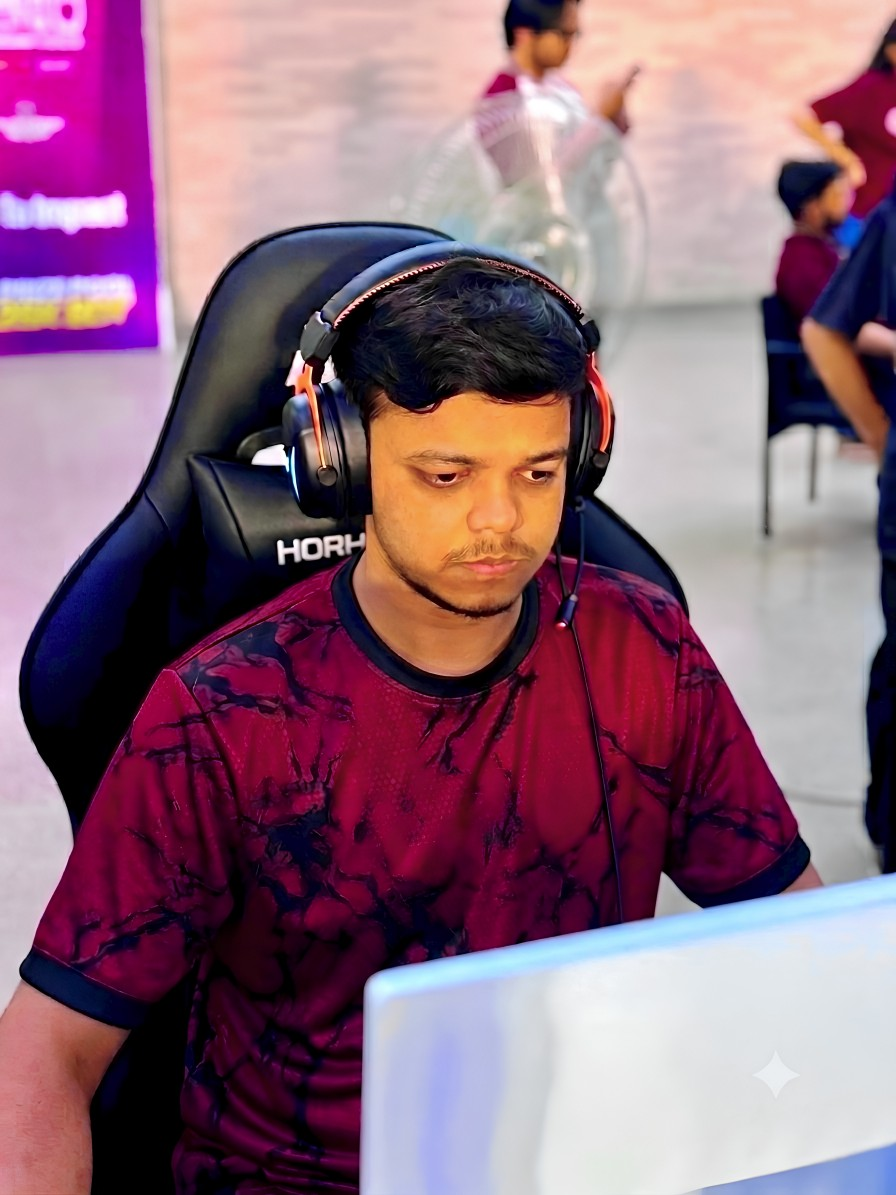
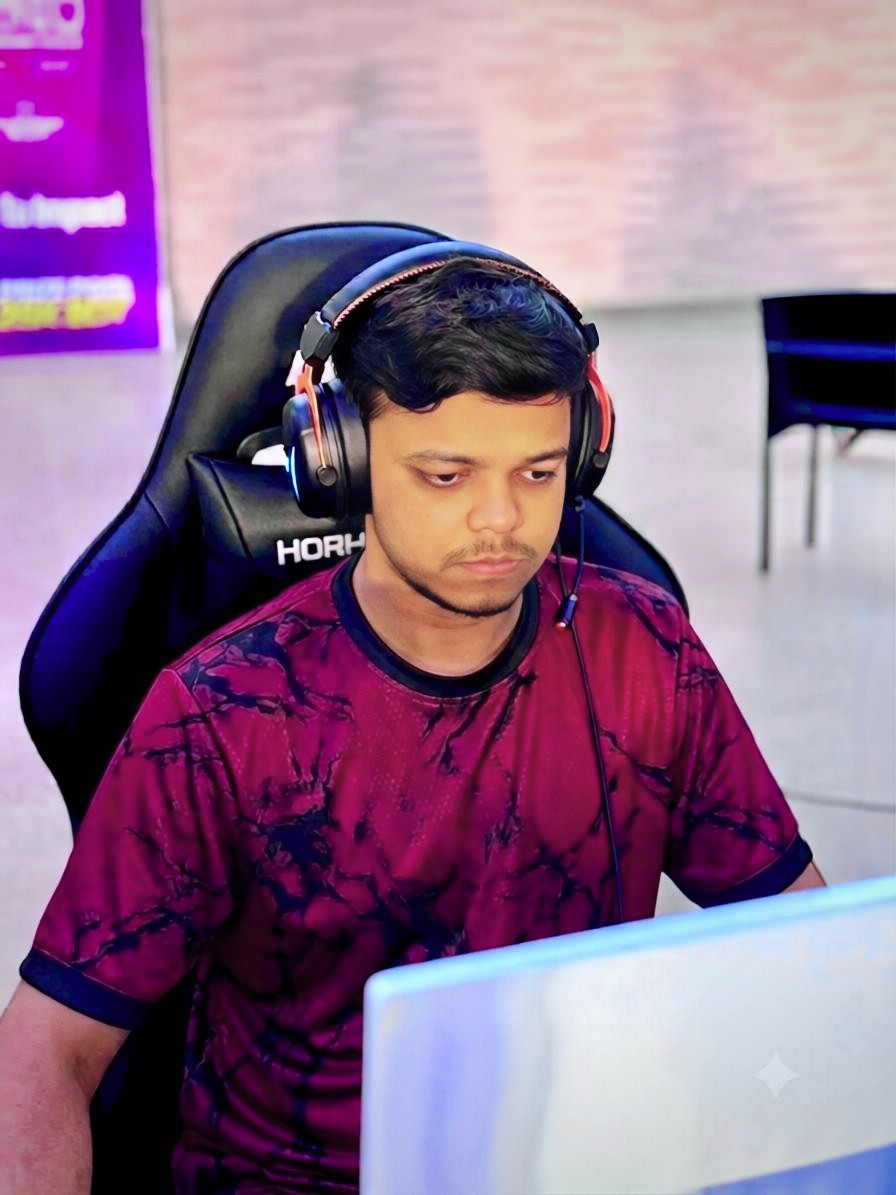
refactor: remove unused imports and clean up code in various components

diff --git a/src/components/Footer.tsx b/src/components/Footer.tsx
@@ -1,15 +1,7 @@
-import { ArrowUp, Instagram, Facebook } from 'lucide-react';
-import { Link } from 'react-router-dom';
+import { ArrowUp } from 'lucide-react';
 import { profile } from '../data/profile';
-import { socialLinks } from '../data/social';
-
-const minorIcons: Record<string, React.ComponentType<React.SVGProps<SVGSVGElement> & { size?: number }>> = {
-  Instagram, Facebook,
-};
 
 const Footer = () => {
-  const minorLinks = socialLinks.filter((s) => !s.major);
-
   return (
     <footer className="border-t border-border-subtle py-8">
       <div className="max-w-7xl mx-auto px-6 flex flex-col md:flex-row items-center justify-between gap-6">

diff --git a/src/pages/Contact.tsx b/src/pages/Contact.tsx
@@ -1,6 +1,6 @@
 import { motion } from 'framer-motion';
 import type { Variants } from 'framer-motion';
-import { Mail, MapPin, Phone, MessageCircle, ExternalLink, Github, Linkedin, Twitter, Instagram, Facebook } from 'lucide-react';
+import { Mail, MapPin, MessageCircle, ExternalLink, Github, Linkedin, Twitter, Instagram, Facebook } from 'lucide-react';
 import { socialLinks } from '../data/social';
 import { profile } from '../data/profile';
 import Reveal from '../components/Reveal';

diff --git a/src/components/PersonalIntro.tsx b/src/components/PersonalIntro.tsx
@@ -1,5 +1,5 @@
 import { Link } from 'react-router-dom';
-import { Github, Linkedin, Twitter, MapPin, Mail, Phone, MessageCircle, ArrowRight } from 'lucide-react';
+import { Github, Linkedin, Twitter, MapPin, Mail, MessageCircle, ArrowRight } from 'lucide-react';
 import { profile } from '../data/profile';
 import Reveal from './Reveal';
 

diff --git a/src/components/InterestsSection.tsx b/src/components/InterestsSection.tsx
@@ -15,7 +15,7 @@ const container = {
 
 const cardItem = {
   hidden: { opacity: 0, y: 30 },
-  visible: { opacity: 1, y: 0, transition: { duration: 0.5, ease: 'easeOut' } },
+  visible: { opacity: 1, y: 0, transition: { duration: 0.5, ease: 'easeOut' as const } },
 };
 
 const InterestsSection = () => (

diff --git a/src/components/Game/gameLogic.ts b/src/components/Game/gameLogic.ts
@@ -9,11 +9,6 @@ interface Ball {
   trail: { x: number; y: number }[];
 }
 
-interface TrailPoint {
-  x: number;
-  y: number;
-}
-
 class Particle {
   x: number;
   y: number;

diff --git a/src/components/SkillsSection.tsx b/src/components/SkillsSection.tsx
@@ -1,4 +1,3 @@
-import { motion } from 'framer-motion';
 import { skills } from '../data/skills';
 import Reveal from './Reveal';
 
